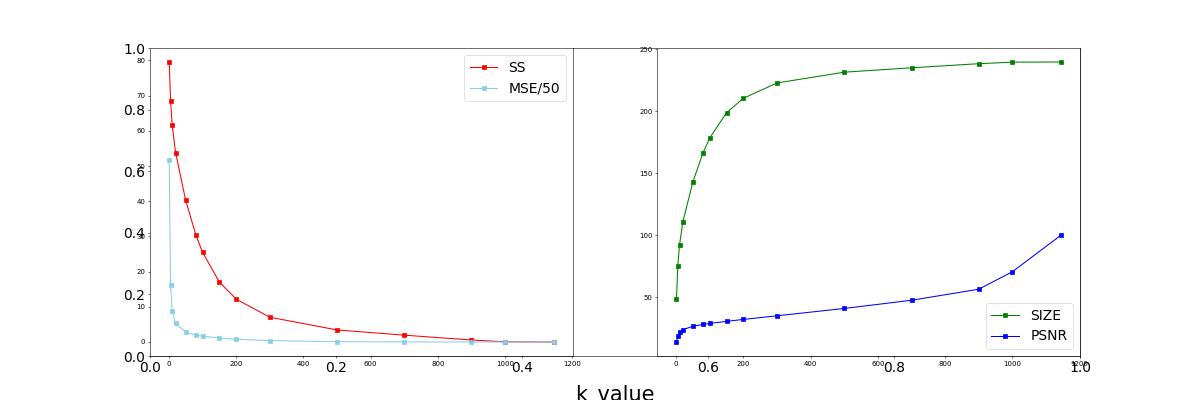
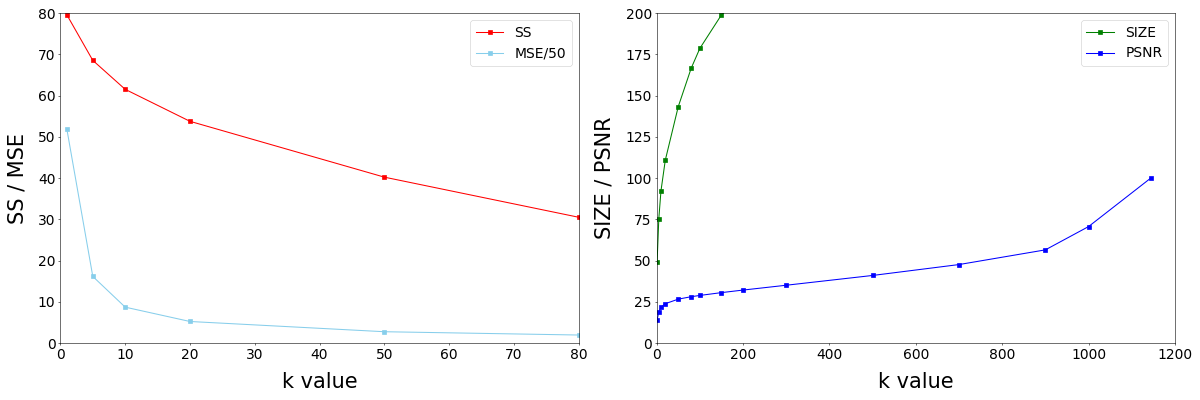
Update svd_hw1.py with modified showLinear function and updated svd_hw1_linear_plots.png

diff --git a/svd_hw1.py b/svd_hw1.py
@@ -144,22 +144,32 @@ garyResult = np.array(results)
 
 ## Plotting Results ##
 def showLinear(table, resize):
-   plt.figure(figsize=(24,8),dpi=50,linewidth = 2)
-   # plt.rcParams['font.sans-serif'] = ['Taipei Sans TC Beta'] # This might cause a warning if the font is not installed
-   plt.xticks(fontsize=20)
-   plt.yticks(fontsize=20)
-   plt.xlabel("k_value", fontsize=30, labelpad = 15)
-   
-   plt.subplot(1,2,1)
-   plt.plot(table[:,0], table[:,6],'s-',color = 'red', label="SS")
-   plt.plot(table[:,0], table[:,7]/resize,'s-',color = 'skyblue', label=f"MSE/{resize}")
-   plt.legend(loc = "best", fontsize=20)
+   fig, (ax1, ax2) = plt.subplots(1, 2, figsize=(24,8),dpi=50,linewidth = 2) # Create figure and two subplots
 
-   plt.subplot(1,2,2)
-   plt.plot(table[:,0], table[:,4],'s-',color = 'green', label="SIZE")
-   plt.plot(table[:,0], table[:,8],'s-',color = 'blue', label="PSNR")
-   plt.legend(loc = "best", fontsize=20)
+   # First subplot
+   ax1.plot(table[:,0], table[:,6],'s-',color = 'red', label="SS")
+   ax1.plot(table[:,0], table[:,7]/resize,'s-',color = 'skyblue', label=f"MSE/{resize}")
+   ax1.legend(loc = "best", fontsize=20)
+   ax1.set_xlim(0, 80) # Set x-limit for left plot
+   ax1.set_ylim(0, 80) # Set y-limit for left plot
+   ax1.set_xlabel("k value", fontsize=30, labelpad = 15)
+   ax1.set_ylabel("SS / MSE", fontsize=30, labelpad = 15)
+   ax1.tick_params(axis='x', labelsize=20)
+   ax1.tick_params(axis='y', labelsize=20)
 
+
+   # Second subplot
+   ax2.plot(table[:,0], table[:,4],'s-',color = 'green', label="SIZE")
+   ax2.plot(table[:,0], table[:,8],'s-',color = 'blue', label="PSNR")
+   ax2.legend(loc = "best", fontsize=20)
+   ax2.set_xlim(0, 1200) # Set x-limit for right plot
+   ax2.set_ylim(0, 200) # Set y-limit for right plot
+   ax2.set_xlabel("k value", fontsize=30, labelpad = 15)
+   ax2.set_ylabel("SIZE / PSNR", fontsize=30, labelpad = 15)
+   ax2.tick_params(axis='x', labelsize=20)
+   ax2.tick_params(axis='y', labelsize=20)
+
+   plt.tight_layout() # Adjust layout to prevent overlapping
    plt.savefig('svd_hw1_linear_plots.png')
    plt.show()
 
